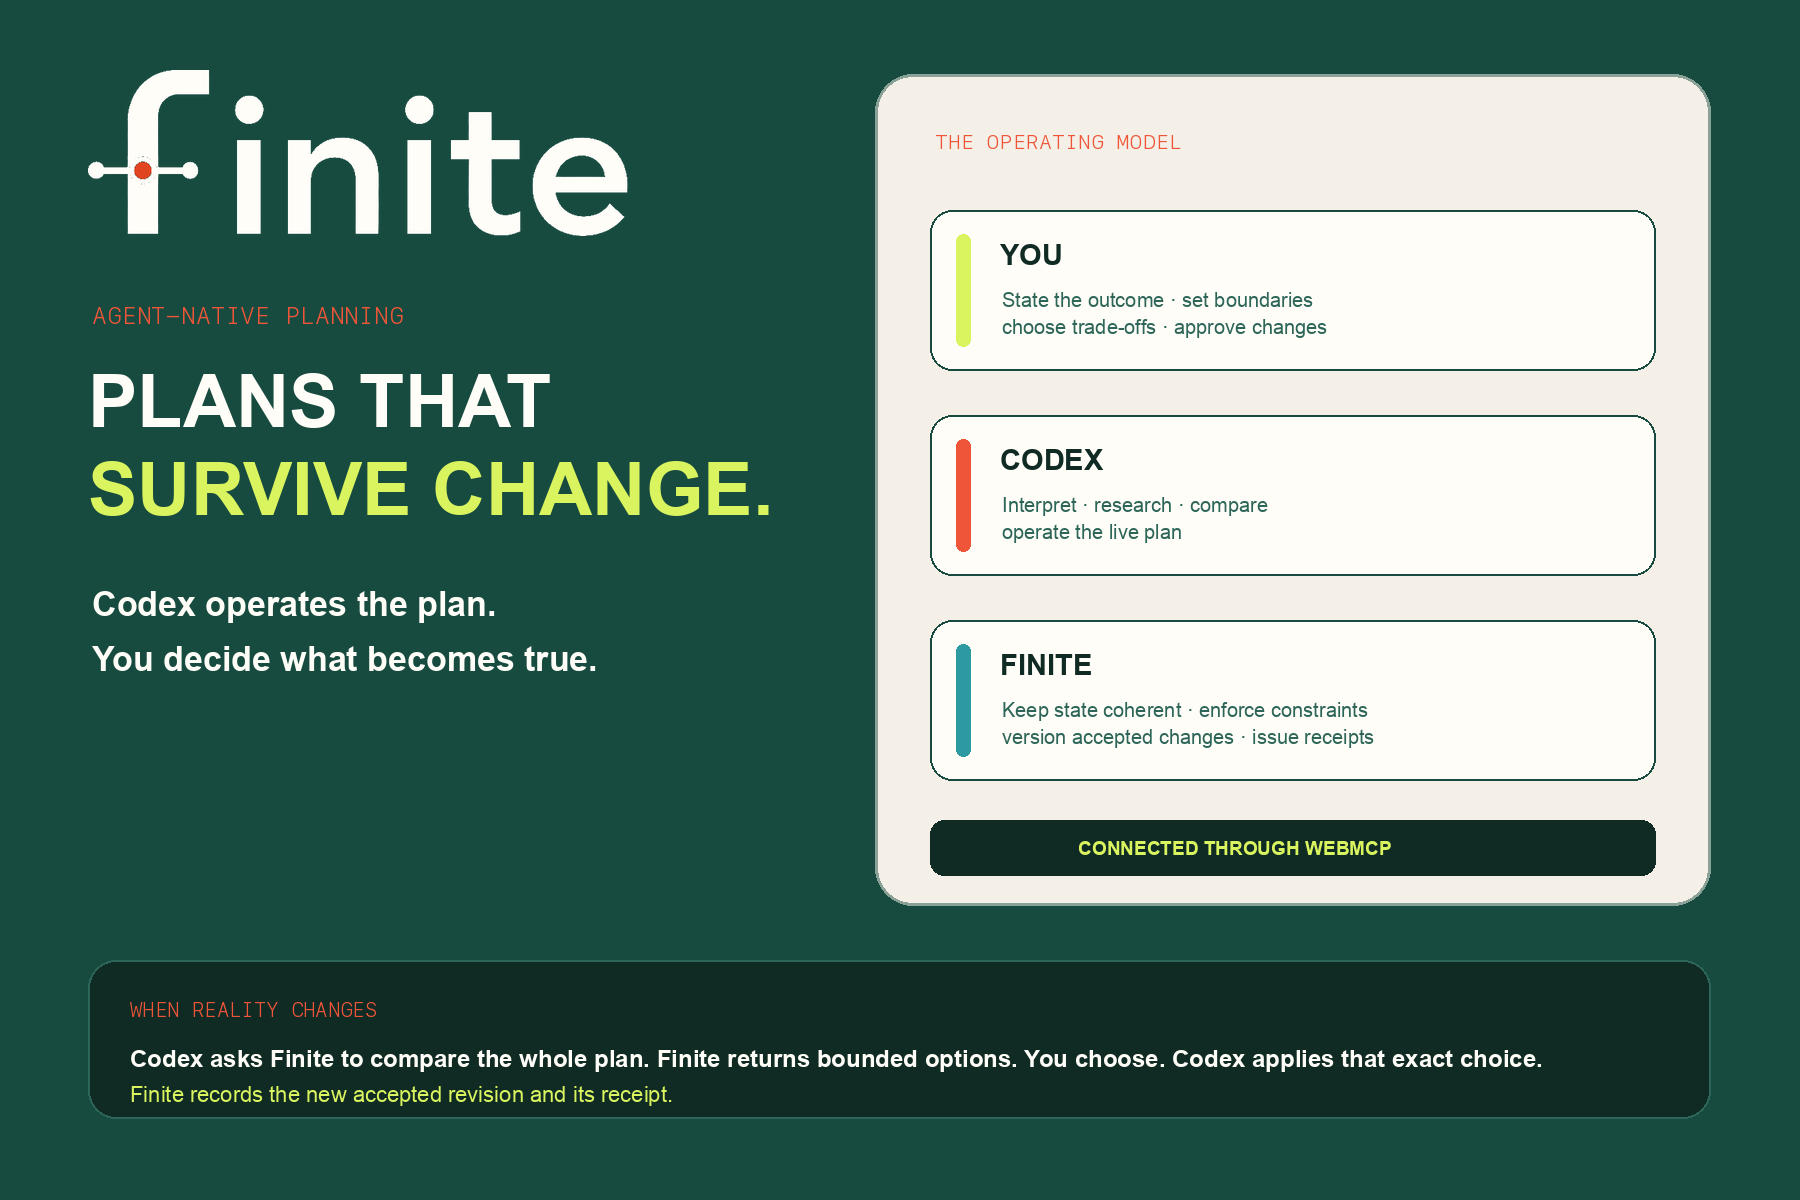
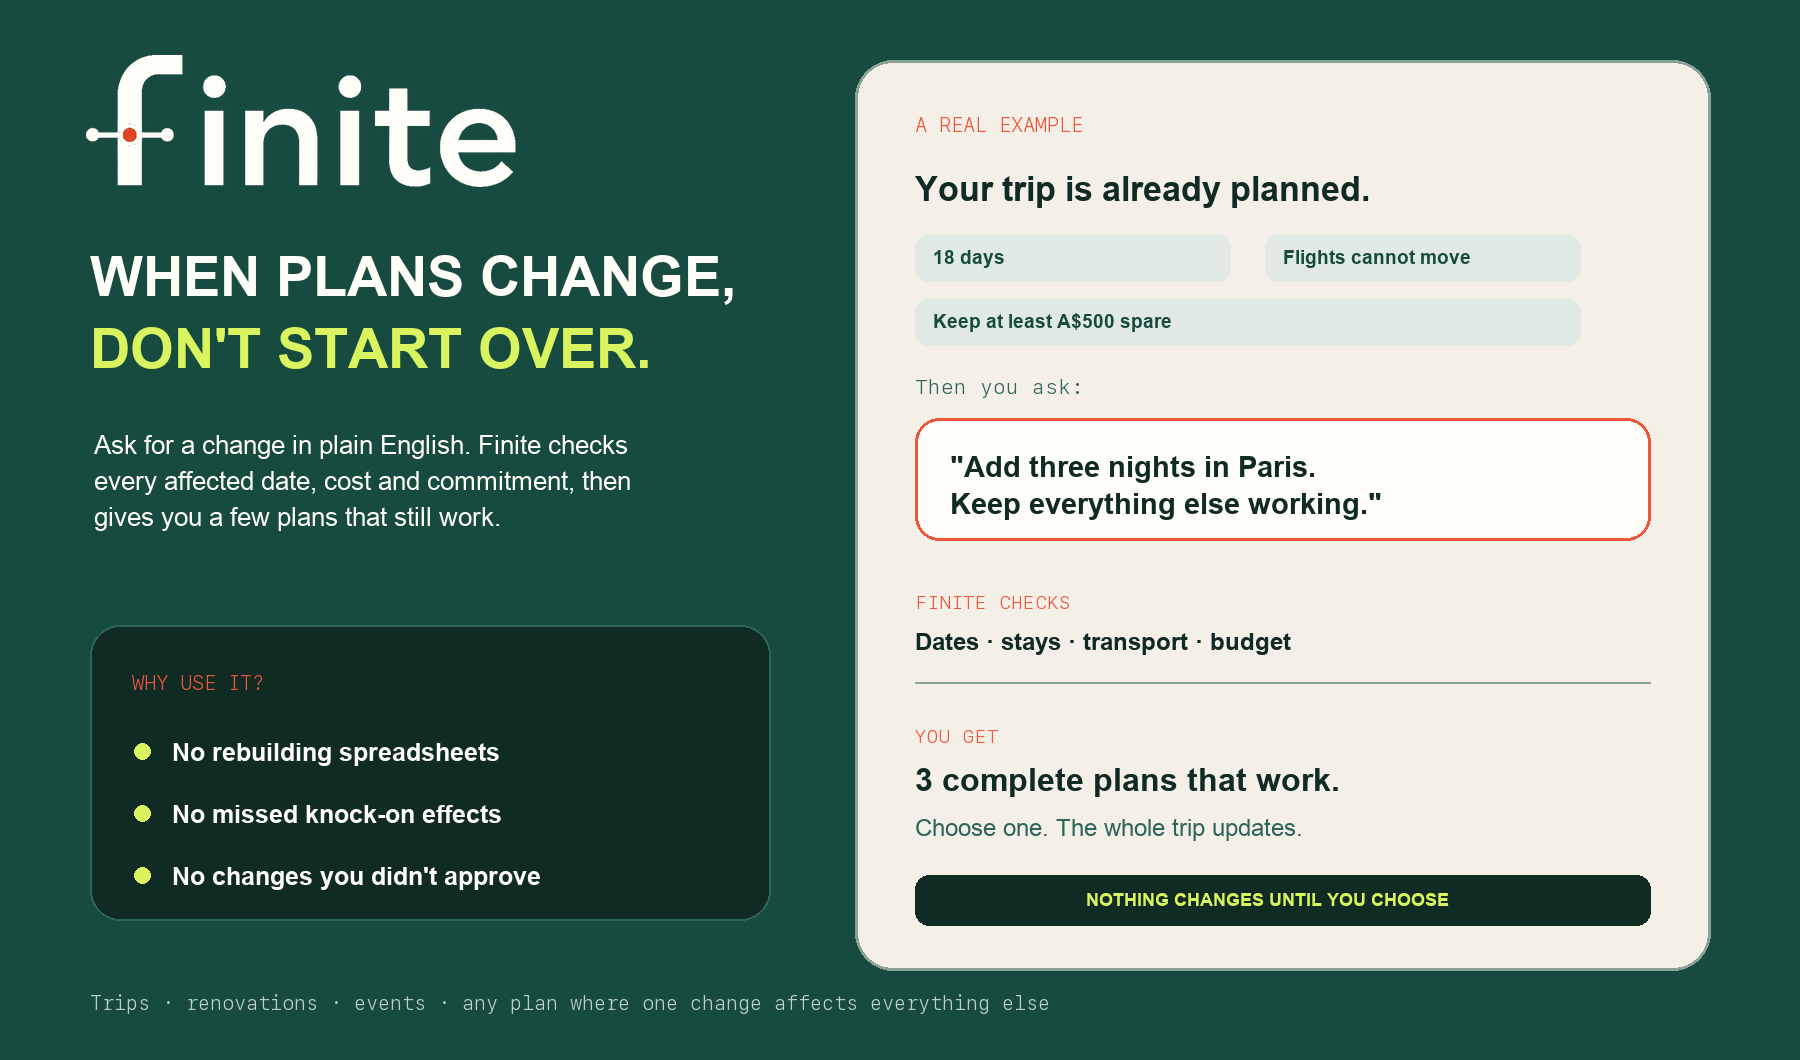
docs: explain Finite through the user's problem

diff --git a/docs/diagrams/render_diagrams.py b/docs/diagrams/render_diagrams.py
@@ -230,42 +230,60 @@ def dark_mode_wordmark() -> None:
 
 
 def github_hero() -> None:
-    image = Image.new("RGB", (1800, 1200), GREEN)
+    image = Image.new("RGB", (1800, 1060), GREEN)
     draw = ImageDraw.Draw(image)
 
     mark = Image.open(OUT / "finite-wordmark-dark.png").convert("RGBA")
-    mark.thumbnail((540, 190), Image.Resampling.LANCZOS)
-    image.paste(mark, (88, 70), mark)
+    mark.thumbnail((430, 150), Image.Resampling.LANCZOS)
+    image.paste(mark, (86, 55), mark)
 
-    draw.text((92, 300), "AGENT-NATIVE PLANNING", font=font(24, mono=True), fill=CORAL)
-    draw.text((88, 360), "PLANS THAT", font=font(74, bold=True), fill=WHITE)
-    draw.text((88, 448), "SURVIVE CHANGE.", font=font(74, bold=True), fill=MINT)
-    draw.text((92, 585), "Codex operates the plan.", font=font(34, bold=True), fill=WHITE)
-    draw.text((92, 640), "You decide what becomes true.", font=font(34, bold=True), fill=WHITE)
+    draw.text((90, 245), "WHEN PLANS CHANGE,", font=font(56, bold=True), fill=WHITE)
+    draw.text((90, 317), "DON'T START OVER.", font=font(56, bold=True), fill=MINT)
+    draw.multiline_text(
+        (94, 430),
+        "Ask for a change in plain English. Finite checks\nevery affected date, cost and commitment, then\ngives you a few plans that still work.",
+        font=font(26), fill=WHITE, spacing=12,
+    )
 
-    panel = (875, 74, 1710, 905)
-    draw.rounded_rectangle(panel, radius=38, fill=PAPER, outline=LINE, width=3)
-    draw.text((935, 128), "THE OPERATING MODEL", font=font(21, mono=True), fill=CORAL)
-
-    roles = [
-        ("YOU", "State the outcome · set boundaries\nchoose trade-offs · approve changes", MINT),
-        ("CODEX", "Interpret · research · compare\noperate the live plan", CORAL),
-        ("FINITE", "Keep state coherent · enforce constraints\nversion accepted changes · issue receipts", TEAL),
+    draw.rounded_rectangle((90, 625, 770, 920), radius=30, fill=INK, outline=GREEN_2, width=2)
+    draw.text((132, 670), "WHY USE IT?", font=font(20, mono=True), fill=CORAL)
+    benefits = [
+        "No rebuilding spreadsheets",
+        "No missed knock-on effects",
+        "No changes you didn't approve",
     ]
-    for index, (title, body, accent) in enumerate(roles):
-        y = 210 + index * 205
-        draw.rounded_rectangle((930, y, 1655, y + 160), radius=22, fill=WHITE, outline=GREEN, width=2)
-        draw.rounded_rectangle((956, y + 24, 970, y + 136), radius=7, fill=accent)
-        draw.text((1000, y + 28), title, font=font(29, bold=True), fill=INK)
-        draw.multiline_text((1002, y + 78), body, font=font(20), fill=GREEN_2, spacing=8)
+    for index, benefit in enumerate(benefits):
+        y = 738 + index * 62
+        draw.ellipse((134, y + 5, 150, y + 21), fill=MINT)
+        draw.text((172, y), benefit, font=font(25, bold=True), fill=WHITE)
 
-    draw.rounded_rectangle((930, 820, 1655, 875), radius=14, fill=INK)
-    draw.text((1078, 837), "CONNECTED THROUGH WEBMCP", font=font(19, bold=True), fill=MINT)
+    panel = (855, 60, 1710, 970)
+    draw.rounded_rectangle(panel, radius=38, fill=PAPER, outline=LINE, width=3)
+    draw.text((915, 112), "A REAL EXAMPLE", font=font(20, mono=True), fill=CORAL)
 
-    draw.rounded_rectangle((88, 960, 1710, 1118), radius=28, fill=INK, outline=GREEN_2, width=2)
-    draw.text((130, 997), "WHEN REALITY CHANGES", font=font(20, mono=True), fill=CORAL)
-    draw.text((130, 1045), "Codex asks Finite to compare the whole plan. Finite returns bounded options. You choose. Codex applies that exact choice.", font=font(24, bold=True), fill=WHITE)
-    draw.text((130, 1082), "Finite records the new accepted revision and its receipt.", font=font(22), fill=MINT)
+    draw.text((915, 170), "Your trip is already planned.", font=font(34, bold=True), fill=INK)
+    facts = ["18 days", "Flights cannot move", "Keep at least A$500 spare"]
+    for index, fact in enumerate(facts):
+        x = 915 + (index % 2) * 350
+        y = 235 + (index // 2) * 64
+        draw.rounded_rectangle((x, y, x + (315 if index < 2 else 665), y + 46), radius=13, fill="#e1e9e5")
+        draw.text((x + 18, y + 11), fact, font=font(19, bold=True), fill=GREEN)
+
+    draw.text((915, 373), "Then you ask:", font=font(21, mono=True), fill=GREEN_2)
+    draw.rounded_rectangle((915, 418, 1650, 540), radius=24, fill=WHITE, outline=CORAL, width=3)
+    draw.multiline_text((950, 450), '"Add three nights in Paris.\nKeep everything else working."', font=font(29, bold=True), fill=INK, spacing=10)
+
+    draw.text((915, 590), "FINITE CHECKS", font=font(19, mono=True), fill=CORAL)
+    draw.text((915, 628), "Dates · stays · transport · budget", font=font(24, bold=True), fill=INK)
+    draw.line((915, 682, 1650, 682), fill=LINE, width=2)
+
+    draw.text((915, 724), "YOU GET", font=font(19, mono=True), fill=CORAL)
+    draw.text((915, 762), "3 complete plans that work.", font=font(32, bold=True), fill=INK)
+    draw.text((915, 814), "Choose one. The whole trip updates.", font=font(24), fill=GREEN_2)
+    draw.rounded_rectangle((915, 875, 1650, 925), radius=14, fill=INK)
+    draw.text((1086, 889), "NOTHING CHANGES UNTIL YOU CHOOSE", font=font(18, bold=True), fill=MINT)
+
+    draw.text((90, 990), "Trips · renovations · events · any plan where one change affects everything else", font=font(20, mono=True), fill="#bcd0c8")
     image.save(OUT / "finite-overview.png", optimize=True)
 
 

diff --git a/README.md b/README.md
@@ -5,10 +5,10 @@
   <img src="./docs/media/finite-wordmark-dark.png#gh-dark-mode-only" width="260" alt="Finite">
 </p>
 
-<p align="center"><strong>Plans that survive change.</strong></p>
+<p align="center"><strong>Change your plans without rebuilding them.</strong></p>
 
 <p align="center">
-  Finite is planning software built for a person and Codex to share. You describe the outcome and set the boundaries. Codex works inside the plan through WebMCP. Finite tests every change against the whole plan and records only the exact option you approve.
+  Finite is for plans with too many connected parts to safely update one by one. Tell Codex what changed. Finite checks the knock-on effects across dates, money, bookings, people and commitments, then gives you a few complete ways forward. Nothing changes until you choose.
 </p>
 
 <p align="center">
@@ -26,44 +26,65 @@
   <a href="./LICENSE"><img alt="MIT License" src="https://img.shields.io/badge/license-MIT-f3eee5?labelColor=123d34"></a>
 </p>
 
-![Finite operating model: the person sets the outcome and authority, Codex operates, Finite keeps the plan coherent, and WebMCP connects them](./docs/media/finite-overview.png)
+![A concrete example of Finite keeping an entire trip working after three extra nights are added in Paris](./docs/media/finite-overview.png)
 
-## The product in one minute
+## One request. Every knock-on effect handled.
 
-Most planning software gives people forms, dashboards and workflows, then asks
-them to do the operational work. Finite changes the division of labour:
+Your 18-day trip is planned. The international flights cannot move, and you
+want to keep at least A$500 spare. Then you decide to stay three more nights in
+Paris.
 
-| Role | Restaurant model | What happens in Finite |
-|---|---|---|
-| **You** | The diner | State the outcome, add judgment, choose trade-offs and grant exact authority |
-| **Codex** | The chef | Interpret, research, compare, prepare and operate the plan |
-| **Finite** | The kitchen and service | Keep facts, constraints, arithmetic, evidence, revisions and receipts coherent |
-| **WebMCP** | The operating seam | Let Codex work inside the same live plan that you can see |
+In an ordinary planner, you now have to revisit every date, stay, journey and
+budget line yourself. A general AI can suggest an answer, but it does not own
+the live plan and cannot prove the rest of it still works.
 
-The result is neither a chat-generated itinerary nor a generic task dashboard.
-It is a versioned planning system where new information can create pressure
-without silently becoming accepted truth.
+Finite checks the whole trip together. It rules out changes that break the
+flights or the spending floor, then shows three complete alternatives with
+different trade-offs. You choose **Protect breathing room**. The trip becomes
+21 days, the flights stay fixed, and A$910 remains spare.
 
-![Finite product thesis showing the person as decision maker and Codex as operator](./docs/media/01-product-thesis.png)
+No rebuilding a spreadsheet. No forgotten knock-on effects. No AI quietly
+rewriting the plan.
+
+![Three complete alternatives for adding Paris nights while protecting the rest of the trip](./docs/media/04-bounded-decision.png)
+
+## You should be the diner, not the kitchen staff
+
+Most planning software hands you the kitchen. It gives you forms, tables and
+controls, then leaves you to research, recalculate and keep everything in sync.
+
+Finite works more like a restaurant. You say what you want, explain what
+matters and choose between the trade-offs. Codex is the chef: it interprets,
+researches, compares and prepares the change. Finite is the kitchen: it keeps
+the dates, costs, commitments and rules working together.
+
+WebMCP is what lets Codex work inside that kitchen directly. It can use the
+same live plan you see instead of guessing from pixels, copying the plan into a
+separate chat or returning advice that you still have to implement yourself.
 
 ## One system, many kinds of plan
 
-Finite compiles one planning grammar into surfaces that fit the work. A trip
-uses dates, places and transport. A renovation uses phases, dependencies and
-handover. An event uses a run of show, capacity and commitments. Interview
-preparation and dinner planning use different measures again.
+Finite is not a travel app. The same planning engine adapts to what you are
+trying to accomplish. A trip needs dates, places and transport. A renovation
+needs phases, dependencies and handover. An event needs a run of show, capacity
+and commitments. Interview preparation and dinner planning need different
+information again.
 
 ![Finite adapting into travel, renovation, event, interview and dinner plan shapes](./docs/media/02-adaptive-system.png)
 
-These are not renamed copies of a single dashboard. The time model, measures,
-entities, actions and decision surface change with the planning contract.
+These are not renamed copies of one dashboard. Each plan gets the timeline,
+measures, records and choices that fit the work.
 
-## Why WebMCP is essential
+## Why this needs WebMCP
 
-WebMCP turns the visible page into a typed operating environment. Codex reads
-the accepted plan, opens a bounded action group, invokes exact semantic actions
-and receives compact, durable results. It does not need a copied chat replica or
-pixel-level automation.
+Without WebMCP, Codex can give advice in a chat or try to click through software
+designed for a person with a mouse. You still have to transfer its answer into
+the real plan, and it can miss connected details along the way.
+
+With WebMCP, Codex can work on the same live plan you are looking at. Finite
+gives it exact actions to read the current plan, record what changed, compare
+possible revisions and apply the option you approved. Finite handles the exact
+state and calculations. You retain the final decision.
 
 ![Finite WebMCP operating seam showing typed entry, bounded actions, revalidation and receipts](./docs/media/03-webmcp-operating-seam.png)
 
@@ -83,7 +104,7 @@ Human confirmation creators are deliberately absent from that tool surface.
 Codex can do the work and prepare a choice. Only the person can create the
 authority required for a consequential transition.
 
-## The decision transaction
+## How one change becomes a safe update
 
 ![Finite decision transaction from accepted revision through pressure, bounded search, human authority and durable receipt](./docs/media/diagram-decision-transaction.png)
 
